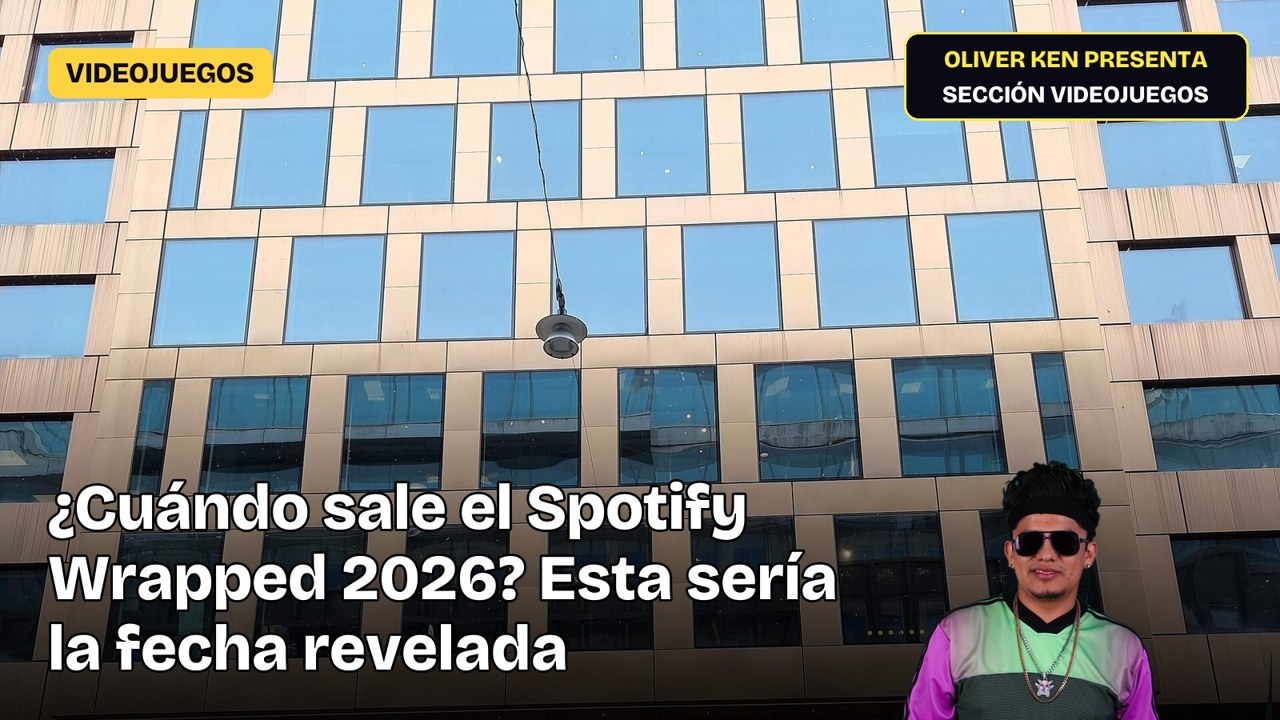
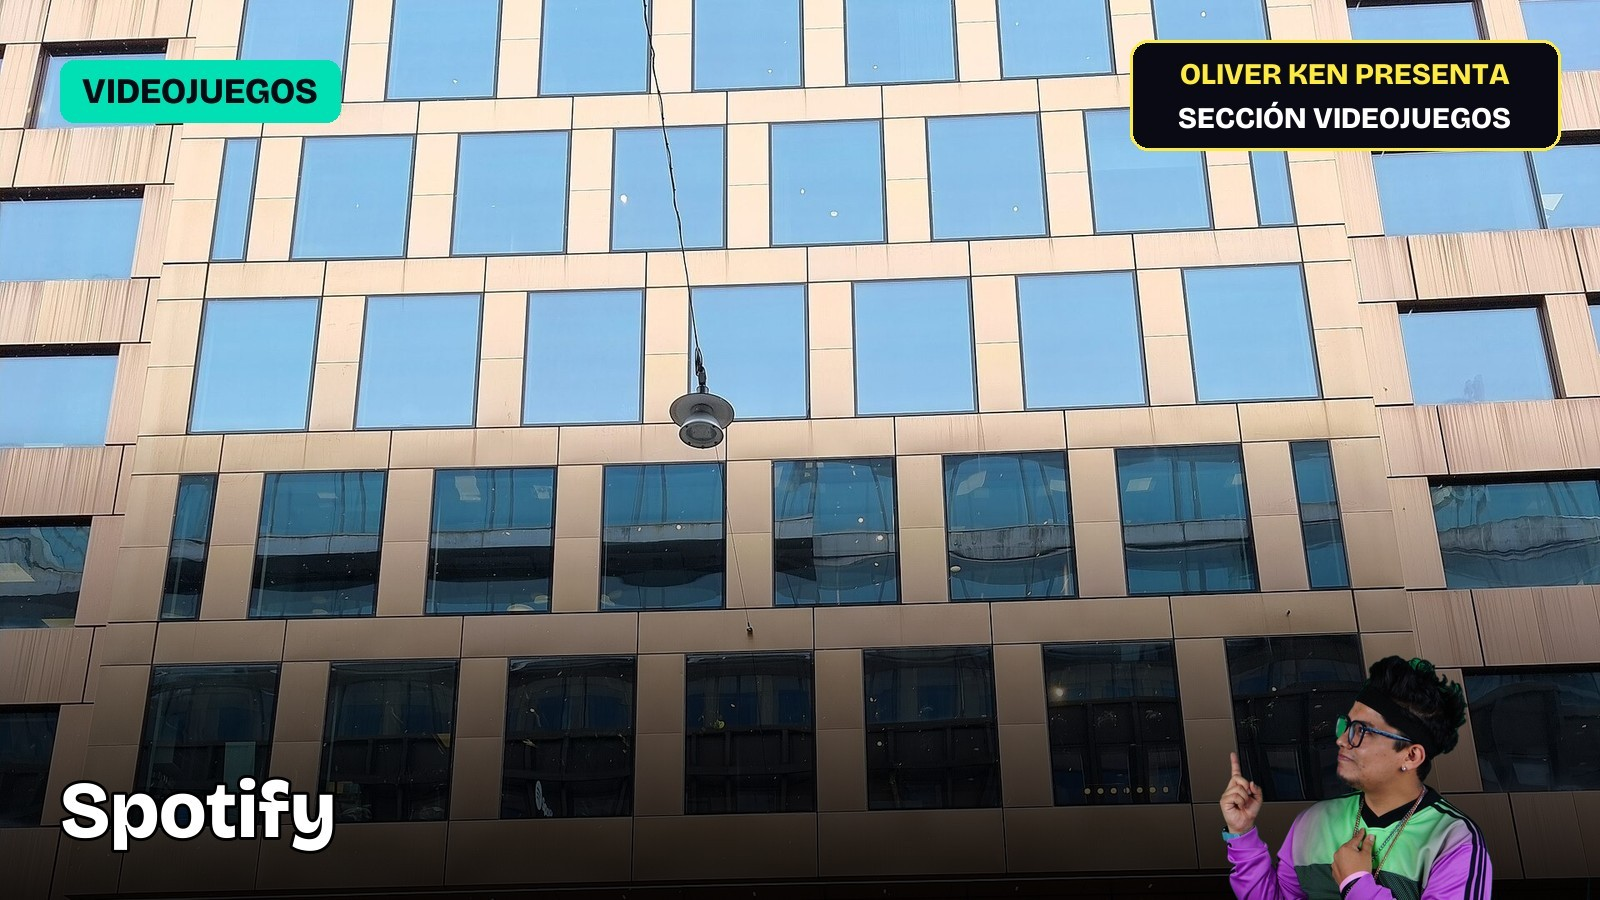
[bot] Portada — 2026-11-12 10:29

Changed region(s): [[0.0312, 0.6722, 0.6562, 0.9472], [0.6875, 0.6417, 0.9375, 1.0], [0.0312, 0.0611, 0.2188, 0.1528]]

diff --git a/notas/spotify-wrapped-2026-la-fecha-prevista-es-el-2-de-diciembre-1112.html b/notas/spotify-wrapped-2026-la-fecha-prevista-es-el-2-de-diciembre-1112.html
@@ -10,8 +10,8 @@
 <meta name="twitter:description" content="Spotify no ha confirmado oficialmente la fecha de lanzamiento de su Wrapped 2026."><meta name="twitter:image" content="https://enelensayomedia.com/img/notas/spotify-wrapped-2026-la-fecha-prevista-es-el-2-de-diciembre-1112.jpg">
 <link href="https://fonts.googleapis.com/css2?family=Manrope:wght@400;600;800&family=Space+Mono:wght@400;700&display=swap" rel="stylesheet">
 <link rel="alternate" type="application/rss+xml" title="En El Ensayo Media" href="https://enelensayomedia.com/feed.xml">
-<script type="application/ld+json">{"@context": "https://schema.org", "@type": "NewsArticle", "headline": "Spotify Wrapped 2026: la fecha prevista es el 2 de diciembre", "description": "Spotify no ha confirmado oficialmente la fecha de lanzamiento de su Wrapped 2026.", "datePublished": "2026-11-12T10:29:19", "author": {"@type": "Organization", "name": "En El Ensayo Media"}, "publisher": {"@type": "Organization", "name": "En El Ensayo Media", "url": "https://enelensayomedia.com"}, "image": ["https://enelensayomedia.com/img/notas/spotify-wrapped-2026-la-fecha-prevista-es-el-2-de-diciembre-1112.jpg"]}</script>
-<script type="application/ld+json">{"@context": "https://schema.org", "@type": "BreadcrumbList", "itemListElement": [{"@type": "ListItem", "position": 1, "name": "En El Ensayo Media", "item": "https://enelensayomedia.com/"}, {"@type": "ListItem", "position": 2, "name": "Reportaje", "item": "https://enelensayomedia.com/noticias.html"}, {"@type": "ListItem", "position": 3, "name": "Spotify Wrapped 2026: la fecha prevista es el 2 de diciembre", "item": "https://enelensayomedia.com/notas/spotify-wrapped-2026-la-fecha-prevista-es-el-2-de-diciembre-1112.html"}]}</script>
+<script type="application/ld+json">{"@context": "https://schema.org", "@type": "NewsArticle", "headline": "Spotify Wrapped 2026: la fecha prevista es el 2 de diciembre", "description": "Spotify no ha confirmado oficialmente la fecha de lanzamiento de su Wrapped 2026.", "datePublished": "2026-11-12T10:29:19", "author": {"@type": "Person", "name": "Oliver Ken"}, "publisher": {"@type": "Organization", "name": "En El Ensayo Media", "url": "https://enelensayomedia.com"}, "image": ["https://enelensayomedia.com/img/notas/spotify-wrapped-2026-la-fecha-prevista-es-el-2-de-diciembre-1112.jpg"]}</script>
+<script type="application/ld+json">{"@context": "https://schema.org", "@type": "BreadcrumbList", "itemListElement": [{"@type": "ListItem", "position": 1, "name": "En El Ensayo Media", "item": "https://enelensayomedia.com/"}, {"@type": "ListItem", "position": 2, "name": "Videojuegos", "item": "https://enelensayomedia.com/videojuegos.html"}, {"@type": "ListItem", "position": 3, "name": "Spotify Wrapped 2026: la fecha prevista es el 2 de diciembre", "item": "https://enelensayomedia.com/notas/spotify-wrapped-2026-la-fecha-prevista-es-el-2-de-diciembre-1112.html"}]}</script>
 <style>
 :root{--tinta:#0b0812;--y:#FFEB3B;--i:#673AB7;--linea:#e4e1ea;--mono:'Space Mono',ui-monospace,monospace}
 *{box-sizing:border-box}body{margin:0;background:#fff;color:var(--tinta);font-family:Manrope,system-ui,sans-serif;line-height:1.7}
@@ -64,8 +64,8 @@ article blockquote{font-size:1.3rem;padding-left:16px}.cta{padding:16px}.video.v
 </style><meta name="google-adsense-account" content="ca-pub-5230441592261869"><script async src="https://pagead2.googlesyndication.com/pagead/js/adsbygoogle.js?client=ca-pub-5230441592261869" crossorigin="anonymous"></script><link rel="preconnect" href="https://fonts.gstatic.com" crossorigin><link href="https://fonts.googleapis.com/css2?family=Bricolage+Grotesque:opsz,wght@12..96,500;12..96,700;12..96,800&display=swap" rel="stylesheet"><link rel="manifest" href="/manifest.webmanifest"><meta name="theme-color" content="#0B0812"><link rel="apple-touch-icon" href="/img/icon-192.png"><link rel="stylesheet" href="/css/moderno.css?v=20261101d"></head><body>
 <header class="top"><div class="w"><a class="logo" href="https://enelensayomedia.com">EN EL ENSAYO MEDIA</a><nav><a href="https://enelensayomedia.com/#notas">Notas</a> <a href="https://enelensayomedia.com/#chisme">Chisme</a> <a href="https://enelensayomedia.com/#misterio">Misterio</a> <a href="https://enelensayomedia.com/#deporte">Deporte</a> <a href="https://enelensayomedia.com/#conciertos">Conciertos</a> <a href="https://enelensayomedia.com/#videos">Videos</a> <a href="https://enelensayomedia.com/podcast.html">Podcast</a> <a href="https://enelensayomedia.com/sesiones.html">Sesiones en vivo</a></nav><a class="tg" href="https://t.me/enelensayomedia" target="_blank" rel="noopener">Únete en Telegram</a></div></header>
 <div data-slot="cabecera" class="w" style="padding:8px 20px 0"></div>
-<div class="cabecera"><div class="w"><a class="kicker" href="https://enelensayomedia.com/noticias.html">Reportaje</a><h1>Spotify Wrapped 2026: la fecha prevista es el 2 de diciembre</h1>
-<p class="dek">Spotify no ha confirmado oficialmente la fecha de lanzamiento de su Wrapped 2026.</p><div class="firma">Por <b>Redacción En el Ensayo Media</b> · 12 de noviembre de 2026 · 10:29</div></div></div>
+<div class="cabecera"><div class="w"><a class="kicker" href="https://enelensayomedia.com/videojuegos.html">Videojuegos</a><h1>Spotify Wrapped 2026: la fecha prevista es el 2 de diciembre</h1>
+<p class="dek">Spotify no ha confirmado oficialmente la fecha de lanzamiento de su Wrapped 2026.</p><div class="firma">Por <b>Oliver Ken</b> · 12 de noviembre de 2026 · 10:29</div></div></div>
 <div class="pagina w"><article>
 <div class="share">Compartir: <a id="x" href="#" target="_blank" rel="noopener">X</a><a id="fb" href="#" target="_blank" rel="noopener">Facebook</a><a id="wa" href="#" target="_blank" rel="noopener">WhatsApp</a><a id="cp" href="#" onclick="return false">Copiar enlace</a></div>
 <figure class="hero"><picture><source type="image/webp" srcset="https://enelensayomedia.com/img/notas/spotify-wrapped-2026-la-fecha-prevista-es-el-2-de-diciembre-1112.webp"><img src="https://enelensayomedia.com/img/notas/spotify-wrapped-2026-la-fecha-prevista-es-el-2-de-diciembre-1112.jpg" alt="Spotify Wrapped 2026: la fecha prevista es el 2 de diciembre" decoding="async"></picture><figcaption>Foto: Spotify</figcaption></figure><p>Spotify no ha confirmado oficialmente la fecha de lanzamiento de su Wrapped 2026. Según varias fuentes, la fecha más citada es el miércoles 2 de diciembre de 2026, aunque Spotify solo indica que está en preparación y avisará cuando esté listo. El Wrapped 2024 salió el 4 de diciembre y el 2025 el 3 de diciembre, ambos miércoles, lo que sugiere una tendencia a publicar en la segunda mitad de diciembre. A la fecha, la única información disponible proviene de predicciones y rangos estimados del 1 al 3 de diciembre.</p><h2>Lo que pasó</h2><p>Spotify no ha confirmado oficialmente la fecha del Wrapped 2026. Sus páginas de México y España indican que está en preparación y avisarán cuando esté listo. La fecha más citada es el miércoles 2 de diciembre de 2026, aunque no es un anuncio oficial. Otra fuente da un rango estimado del 1 al 3 de diciembre, con mayor probabilidad el 2. Wrapped 2024 salió el 4 de diciembre y Wrapped 2025 el 3 de diciembre, ambos miércoles. Un blog propone el miércoles 25 de noviembre como alternativa menos frecuente. El 5 de noviembre de 2026 Spotify publicó una guía para artistas sobre cómo prepararse para Wrapped 2026, sin incluir la fecha de lanzamiento.</p><h2>Antecedentes</h2><p>El Wrapped es una función anual de Spotify que resume las canciones más escuchadas del usuario durante el año. Desde 2021, todos los Wrapped se han lanzado los miércoles, y suelen aparecer después del Día de Acción de Gracias de EE. UU. En 2026, el Día de Acción de Gracias cae el 26 de noviembre, lo que sugiere que la publicación se posponga a la segunda mitad de diciembre. El Wrapped 2024 se lanzó el 4 de diciembre y el 2025 el 3, ambos miércoles, lo que refuerza la tendencia de publicar en la segunda mitad de diciembre. Estas fechas han sido observadas por varios analistas y se utilizan como referencia para estimar la fecha del Wrapped 2026.</p>
